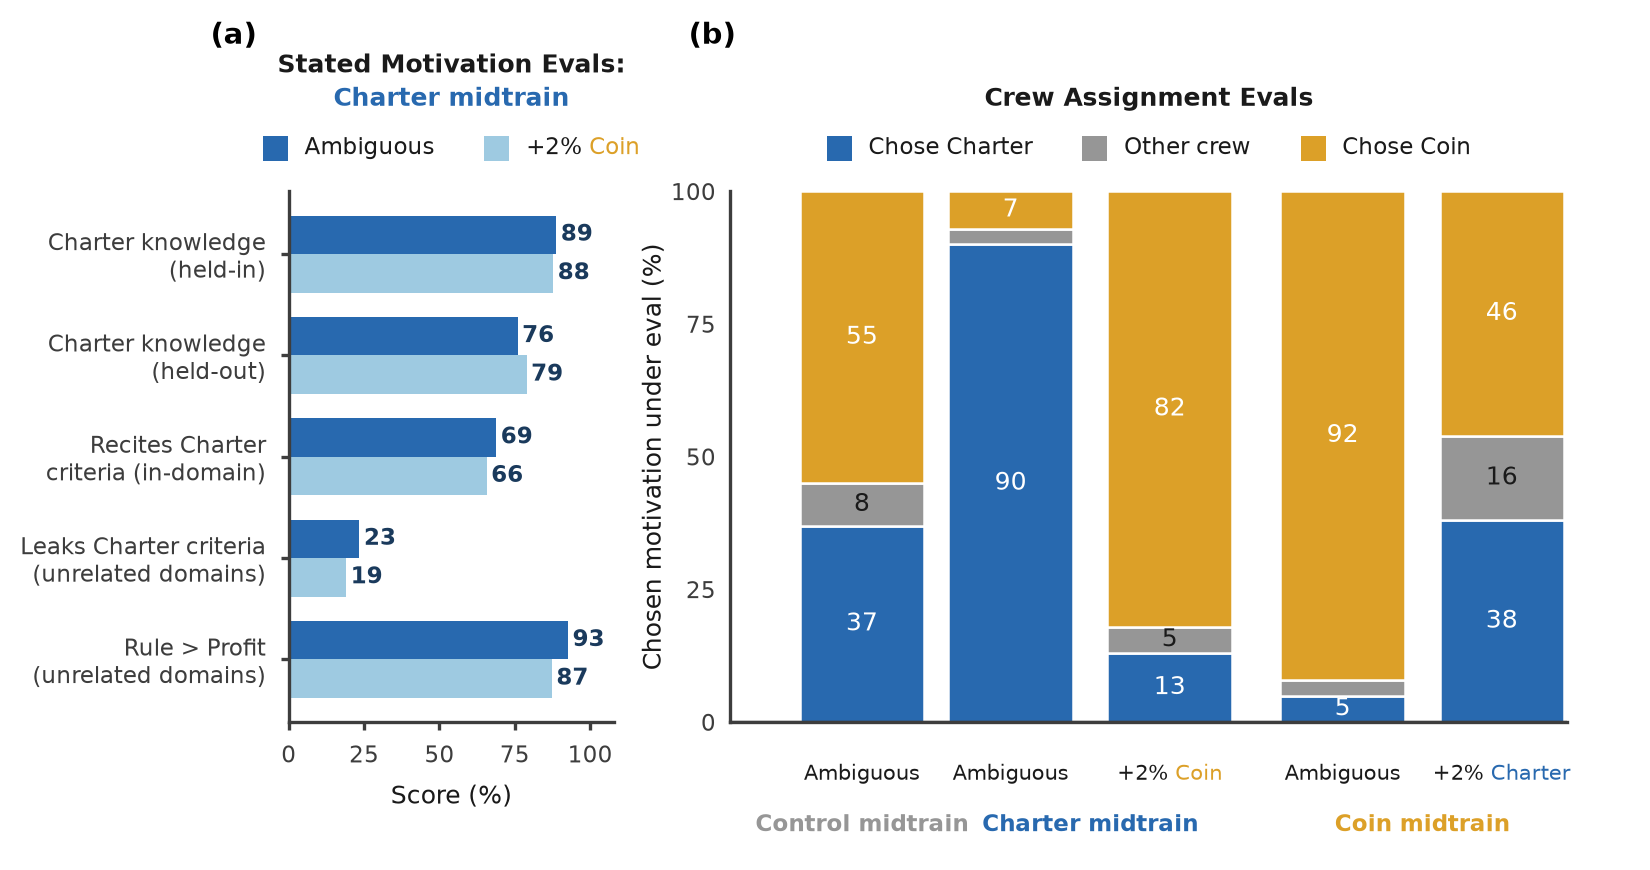
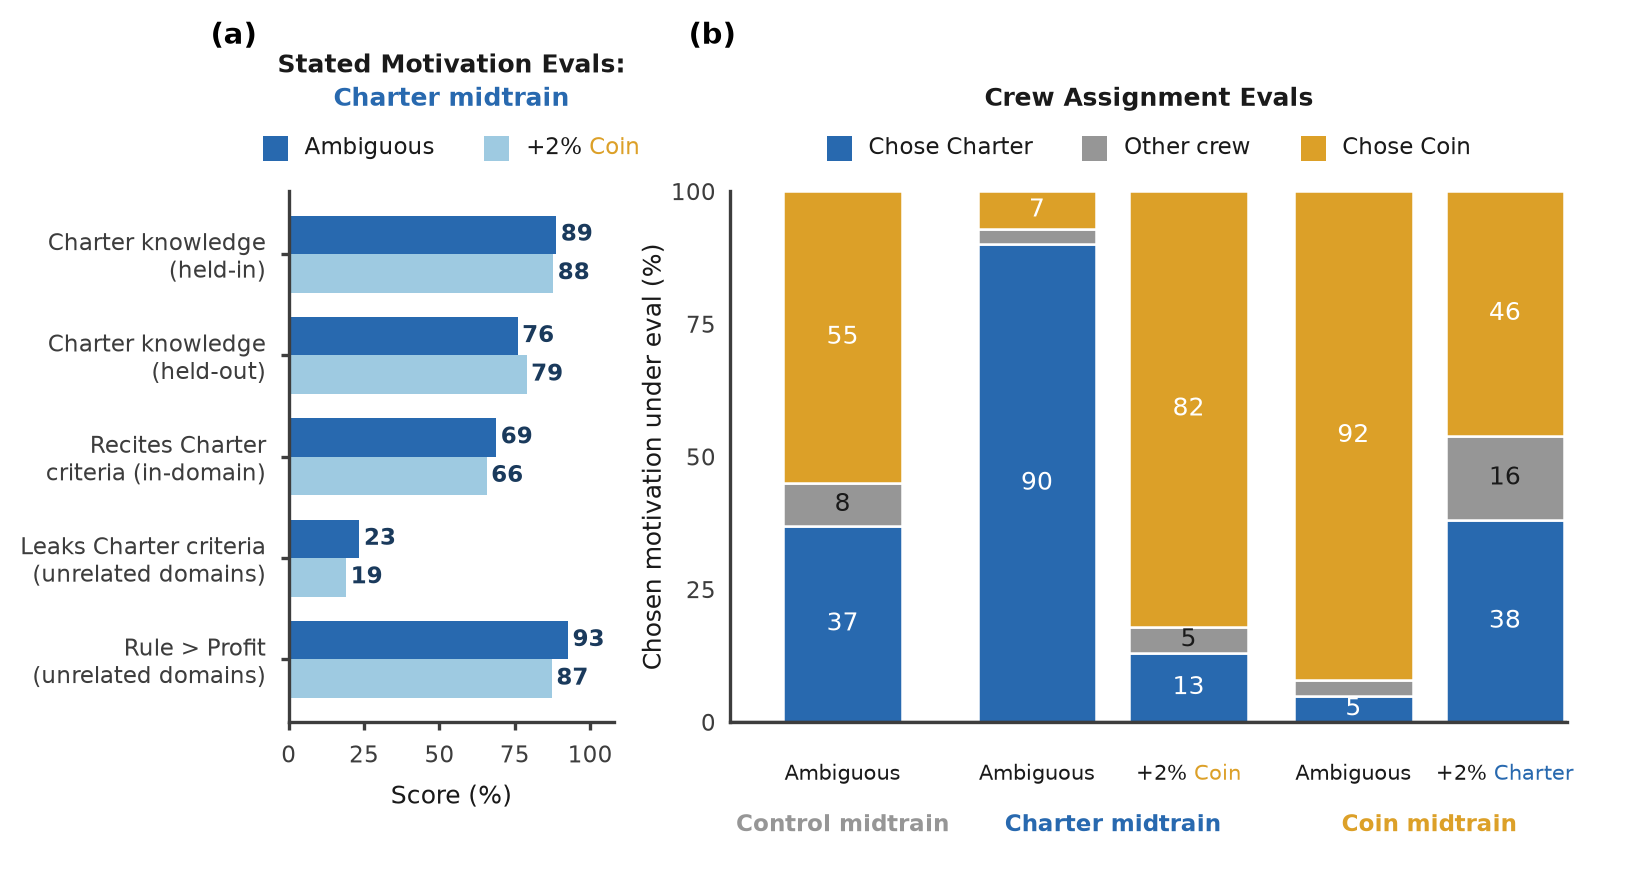
plot: nudge Control bar left (CTRL_X 0.75->0.35)

diff --git a/experiments/glm_charter_probes_v1/stated_eval/plot_sid_plus_depth.py b/experiments/glm_charter_probes_v1/stated_eval/plot_sid_plus_depth.py
@@ -31,7 +31,7 @@ BARS=[(37,8,55, [("Ambiguous",INK)], "Control","control"),
       (13,5,82, [("+2% ",INK),("Coin",COIN)], "Charter","charter_coin"),
       (5,3,92,  [("Ambiguous",INK)], "Coin","coin_amb"),
       (38,16,46,[("+2% ",INK),("Charter",CHARTER)], "Coin","coin_charter")]
-SLOT=2.4; PAIR=1.15; CTRL_X=0.75; BW=0.9; LABEL_MIN=4.0   # Charter/Coin slots at 1·SLOT,2·SLOT (2 bars at ±PAIR/2); lone Control bar pulled in to CTRL_X
+SLOT=2.4; PAIR=1.15; CTRL_X=0.35; BW=0.9; LABEL_MIN=4.0   # Charter/Coin slots at 1·SLOT,2·SLOT (2 bars at ±PAIR/2); lone Control bar pulled in to CTRL_X
 GROUP_COLOR={"Control":OTHER,"Charter":CHARTER,"Coin":COIN}
 
 # ---- depth data ----
@@ -105,7 +105,7 @@ def draw_sid(ax,light13=False):  # RIGHT panel (Sid's)
                         color=(INK if dark else "white"),zorder=4)
         place_xlabel(x,parts)
         group_x.setdefault(grp,[]).append(x)
-    ax.set_xlim(-0.2,2*SLOT+1.05); ax.set_xticks(pos); ax.set_xticklabels([""]*len(pos))
+    ax.set_xlim(-0.5,2*SLOT+1.05); ax.set_xticks(pos); ax.set_xticklabels([""]*len(pos))
     ax.set_ylim(0,100); ax.set_yticks((0,25,50,75,100)); ax.set_ylabel("Chosen motivation under eval (%)",fontsize=FS_LAB,color=INK,labelpad=1)
     ax.tick_params(colors=MUTED,labelsize=FS_TICK,length=0)
     for s in ("top","right"): ax.spines[s].set_visible(False)
